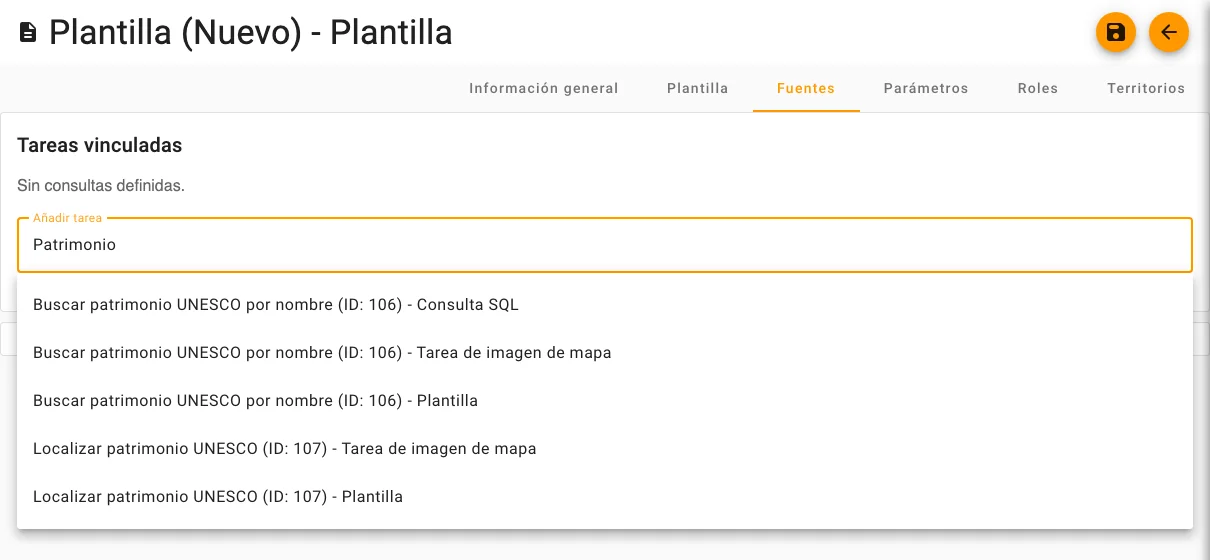
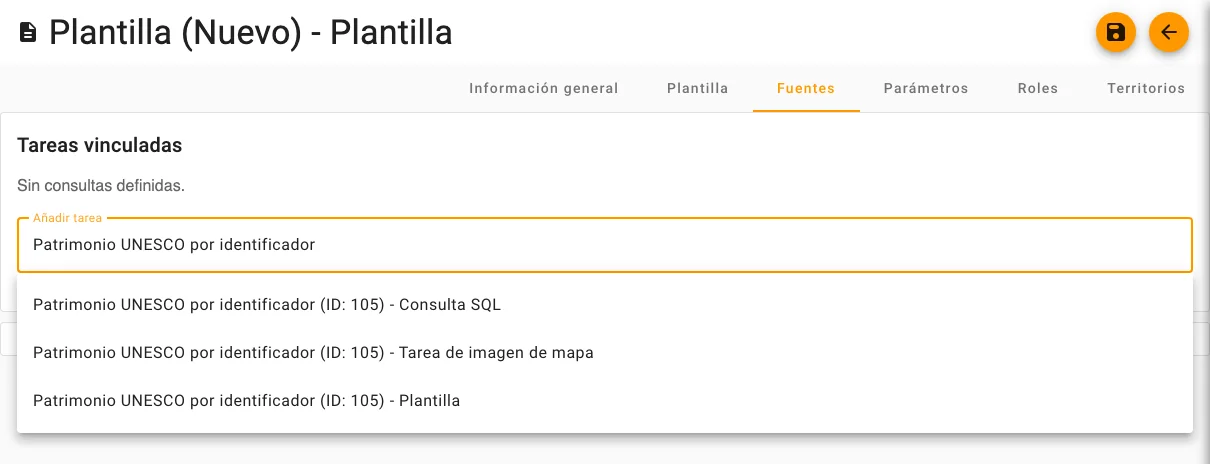
docs: round 8 screenshots and page details
- plantilla-seleccionar-consulta retaken: the step now types the full query name, so the list shows «Patrimonio UNESCO por identificador» (ID 105) as the text says (captured without saving anything).
- Service Monitorización/Uso screenshots captioned: they show another demo service with history.
- Roadmap page title matches its nav label (Hoja de ruta).
- Install table fits a 375 px screen.

diff --git a/tools/screenshots/steps.py b/tools/screenshots/steps.py
@@ -519,7 +519,7 @@ def plantillas(c: Ctx) -> None:
     sources = body.locator("mat-card").first
     add = body.locator("input").first
     add.click()
-    add.press_sequentially(QUERY[:10], delay=30)
+    add.press_sequentially(QUERY, delay=30)
     p.wait_for_timeout(1200)
     c.save("plantilla-seleccionar-consulta", c.content)
     p.get_by_role("option").filter(has_text=QUERY).filter(has_text="Consulta SQL").last.click()

diff --git a/docs/usuario/instalacion/instalacion.md b/docs/usuario/instalacion/instalacion.md
@@ -12,13 +12,13 @@ Los repositorios antiguos por componente (`sitmun-application-stack`, `sitmun-ba
 
     **Elegir cómo instalar**
 
-    | Uso (versión) | Perfil | Datos |
+    | Uso (versión) | Perfil | Base de datos |
     | --- | --- | --- |
-    | Probar SITMUN (*showcase*) (`v1.3.0`) | `showcase.env` | Tres aplicaciones de demostración |
-    | Producción con PostgreSQL (`v1.3.0`) | `postgres.env` | Sin datos de ejemplo |
-    | Producción con Oracle (`v1.3.0`) | `oracle.env` | Sin datos de ejemplo |
-    | Desarrollo con PostgreSQL (`dev`) | `development-postgres.env` | Datos de ejemplo |
-    | Desarrollo con Oracle (`dev`) | `development-oracle.env` | Datos de ejemplo |
+    | *Showcase* (`v1.3.0`) | `showcase.env` | Tres aplicaciones de ejemplo |
+    | Producción, PostgreSQL (`v1.3.0`) | `postgres.env` | Vacía |
+    | Producción, Oracle (`v1.3.0`) | `oracle.env` | Vacía |
+    | Desarrollo, PostgreSQL (`dev`) | `development-postgres.env` | Datos de ejemplo |
+    | Desarrollo, Oracle (`dev`) | `development-oracle.env` | Datos de ejemplo |
 
     Los perfiles están en la carpeta `profiles/` del repositorio. La versión, entre paréntesis, es la etiqueta o la rama que se descarga.
 

diff --git a/docs/usuario/manual/administrador/servicios.md b/docs/usuario/manual/administrador/servicios.md
@@ -97,3 +97,5 @@ En concreto, la pestaña **Monitorización** permite mantener un seguimiento per
 La pestaña **Uso** muestra estadísticas de uso del servicio. Solo se cuentan las peticiones que pasan por el proxy de SITMUN y las **Cargas de visor**: si el servicio no usa el proxy, el visor lo llama directamente y esas peticiones aparecen como «No medido».
 
 ![Pestaña Uso](img/servicios-uso.webp){ loading=lazy }
+
+*Estas dos capturas son de otro servicio de la instalación de demostración, «IDE Menorca - Ordenación del territorio», que ya tiene historial de comprobaciones y de uso.*

diff --git a/docs/que-es-sitmun/plataforma/hoja-de-ruta/index.md b/docs/que-es-sitmun/plataforma/hoja-de-ruta/index.md
@@ -2,7 +2,7 @@
 description: "Hoja de ruta de SITMUN 3: proyectos en desarrollo, en cola y finalizados."
 ---
 
-# Proyectos
+# Hoja de ruta
 
 <table>
     <tr>
